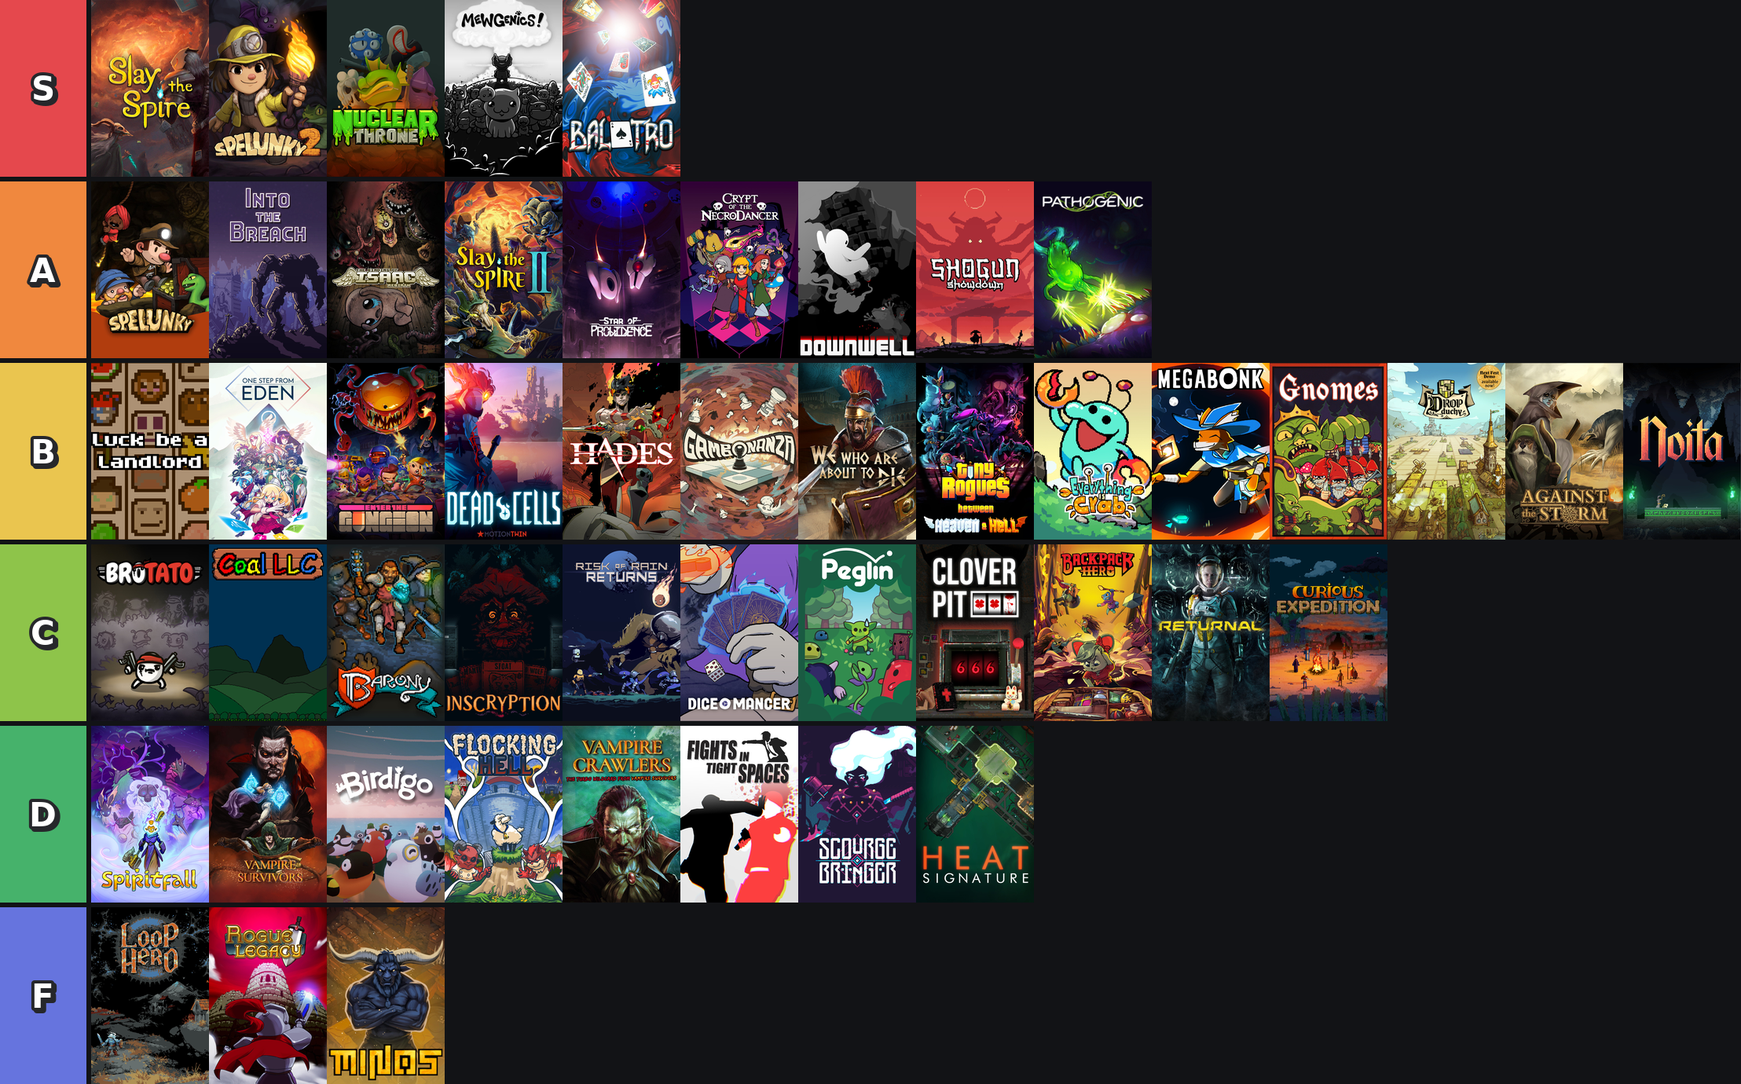
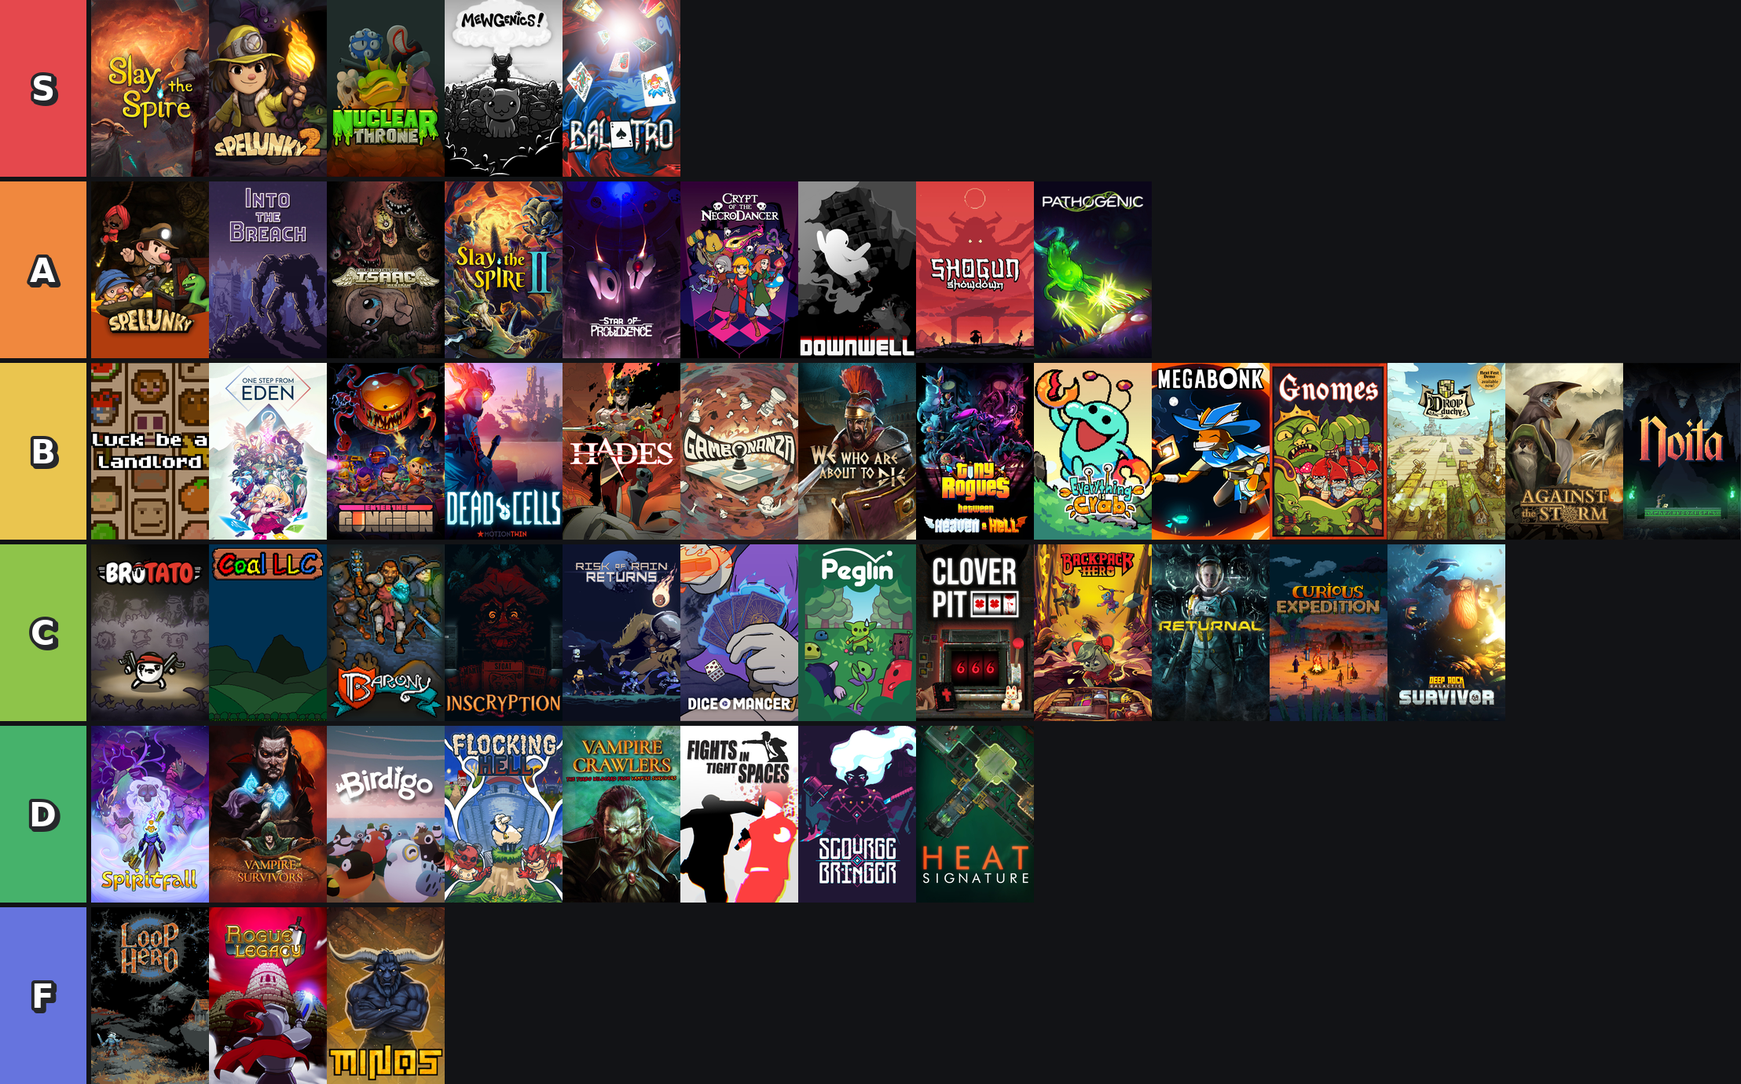
deploy: b0811cf26ed3d3cce0c8ecb3d6b9a3818a7119a2

Changed region(s): [[0.7784, 0.4986, 0.8718, 0.6543]]

diff --git a/episodes/index.html b/episodes/index.html
@@ -1,4 +1,4 @@
-<!doctype html><html lang="en"><head><meta charset="utf-8"/><link rel="icon" href="/favicon.ico" sizes="any"/><link rel="icon" type="image/png" href="/favicon-32.png" sizes="32x32"/><meta name="viewport" content="width=device-width,initial-scale=1"/><meta name="theme-color" content="#08090A"/><meta name="color-scheme" content="dark"/><title>All episodes | RoguePod LiteCast</title><meta name="title" content="All episodes | RoguePod LiteCast"/><meta name="description" content="Every episode of RoguePod LiteCast — 50 roguelites played, discussed, and placed on the tier list by Danny and David."/><meta name="keywords" content="roguelite podcast, roguelike podcast, slay the spire, hades, balatro, noita, inscryption, binding of isaac, risk of rain returns, into the breach, spelunky, nuclear throne, enter the gungeon, crypt of the necrodancer, rogue legacy, indie game podcast, roguelite review, roguelike review, gaming podcast, tier list podcast, roguelite tier list"/><meta name="robots" content="index, follow"/><meta name="language" content="English"/><meta name="author" content="Danny and David - RoguePod LiteCast"/><meta property="og:type" content="website"/><meta property="og:url" content="https://roguepod.show/episodes/"/><meta property="og:title" content="All episodes | RoguePod LiteCast"/><meta property="og:description" content="Every episode of RoguePod LiteCast — 50 roguelites played, discussed, and placed on the tier list by Danny and David."/><meta property="og:image" content="https://roguepod.show/brand/share-card.jpg"/><meta property="og:image:width" content="1200"/><meta property="og:image:height" content="630"/><meta property="og:image:alt" content="RoguePod LiteCast — a roguelite podcast"/><meta property="og:site_name" content="RoguePod LiteCast"/><meta property="twitter:card" content="summary_large_image"/><meta property="twitter:url" content="https://roguepod.show/episodes/"/><meta property="twitter:title" content="All episodes | RoguePod LiteCast"/><meta property="twitter:description" content="Every episode of RoguePod LiteCast — 50 roguelites played, discussed, and placed on the tier list by Danny and David."/><meta property="twitter:image" content="https://roguepod.show/brand/share-card.jpg"/><link rel="canonical" href="https://roguepod.show/episodes/" /><meta name="format-detection" content="telephone=no"/><link rel="apple-touch-icon" href="/apple-touch-icon.png"/><link rel="manifest" href="/manifest.json"/><script type="text/javascript">!function(n){if("/"===n.search[1]){var a=n.search.slice(1).split("&").map((function(n){return n.replace(/~and~/g,"&")})).join("?");window.history.replaceState(null,null,n.pathname.slice(0,-1)+a+n.hash)}}(window.location)</script><script defer="defer" src="/static/js/main.2dc2a6ab.js"></script><link href="/static/css/main.1523f94e.css" rel="stylesheet">  <script type="application/ld+json">
+<!doctype html><html lang="en"><head><meta charset="utf-8"/><link rel="icon" href="/favicon.ico" sizes="any"/><link rel="icon" type="image/png" href="/favicon-32.png" sizes="32x32"/><meta name="viewport" content="width=device-width,initial-scale=1"/><meta name="theme-color" content="#08090A"/><meta name="color-scheme" content="dark"/><title>All episodes | RoguePod LiteCast</title><meta name="title" content="All episodes | RoguePod LiteCast"/><meta name="description" content="Every episode of RoguePod LiteCast — 51 roguelites played, discussed, and placed on the tier list by Danny and David."/><meta name="keywords" content="roguelite podcast, roguelike podcast, slay the spire, hades, balatro, noita, inscryption, binding of isaac, risk of rain returns, into the breach, spelunky, nuclear throne, enter the gungeon, crypt of the necrodancer, rogue legacy, indie game podcast, roguelite review, roguelike review, gaming podcast, tier list podcast, roguelite tier list"/><meta name="robots" content="index, follow"/><meta name="language" content="English"/><meta name="author" content="Danny and David - RoguePod LiteCast"/><meta property="og:type" content="website"/><meta property="og:url" content="https://roguepod.show/episodes/"/><meta property="og:title" content="All episodes | RoguePod LiteCast"/><meta property="og:description" content="Every episode of RoguePod LiteCast — 51 roguelites played, discussed, and placed on the tier list by Danny and David."/><meta property="og:image" content="https://roguepod.show/brand/share-card.jpg"/><meta property="og:image:width" content="1200"/><meta property="og:image:height" content="630"/><meta property="og:image:alt" content="RoguePod LiteCast — a roguelite podcast"/><meta property="og:site_name" content="RoguePod LiteCast"/><meta property="twitter:card" content="summary_large_image"/><meta property="twitter:url" content="https://roguepod.show/episodes/"/><meta property="twitter:title" content="All episodes | RoguePod LiteCast"/><meta property="twitter:description" content="Every episode of RoguePod LiteCast — 51 roguelites played, discussed, and placed on the tier list by Danny and David."/><meta property="twitter:image" content="https://roguepod.show/brand/share-card.jpg"/><link rel="canonical" href="https://roguepod.show/episodes/" /><meta name="format-detection" content="telephone=no"/><link rel="apple-touch-icon" href="/apple-touch-icon.png"/><link rel="manifest" href="/manifest.json"/><script type="text/javascript">!function(n){if("/"===n.search[1]){var a=n.search.slice(1).split("&").map((function(n){return n.replace(/~and~/g,"&")})).join("?");window.history.replaceState(null,null,n.pathname.slice(0,-1)+a+n.hash)}}(window.location)</script><script defer="defer" src="/static/js/main.2dc2a6ab.js"></script><link href="/static/css/main.1523f94e.css" rel="stylesheet">  <script type="application/ld+json">
 {
   "@context": "https://schema.org",
   "@type": "CollectionPage",
@@ -13,6 +13,6 @@
   </script>
 </head><body><noscript><div style="font-family:system-ui,sans-serif;padding:2rem;background:#08090a;color:#e8eaed;min-height:100vh"><h1>RoguePod LiteCast</h1><p>Building the most comprehensive roguelite tier list, one episode at a time. We like playing roguelites, so we started a podcast to talk about them. New episodes every other Wednesday.</p><p><a href="https://roguepod.show/tierlist.png" style="color:#ff3b30">View the tier list</a></p><p>Listen on <a href="https://open.spotify.com/show/0LGkjkg8uVVMg5y6slJiua" style="color:#ff3b30">Spotify</a>, <a href="https://podcasts.apple.com/gb/podcast/roguepod-litecast/id1774367401" style="color:#ff3b30">Apple Podcasts</a>, or via <a href="https://feeds.acast.com/public/shows/roguepod-litecast" style="color:#ff3b30">RSS</a>. Monthly bonus episodes on <a href="https://www.patreon.com/roguepod" style="color:#ff3b30">Patreon</a>.</p><p>Games covered include Slay the Spire, Hades, Balatro, Noita, Inscryption, The Binding of Isaac, Risk of Rain Returns, Into the Breach, Spelunky 2, Nuclear Throne, Enter the Gungeon, Crypt of the NecroDancer, Rogue Legacy, and many more.</p></div></noscript><div id="root"><div style="font-family: system-ui, sans-serif; padding: 2rem; background: #08090A; color: #E8EAED; min-height: 100vh;">
       <h1 style="color:#fff;">All episodes</h1>
-      <p style="color:#B7BCC4;">Every episode of RoguePod LiteCast — 50 roguelites played, discussed, and placed on the tier list by Danny and David.</p>
-      <ul><li><a style="color:#FF3B30;" href="/episodes/vampire-survivors/">Vampire Survivors</a></li><li><a style="color:#FF3B30;" href="/episodes/dead-cells/">Dead Cells</a></li><li><a style="color:#FF3B30;" href="/episodes/pathogenic/">Pathogenic</a></li><li><a style="color:#FF3B30;" href="/episodes/everything-is-crab/">Everything is Crab</a></li><li><a style="color:#FF3B30;" href="/episodes/gambonanza/">Gambonanza</a></li><li><a style="color:#FF3B30;" href="/episodes/spiritfall/">Spiritfall</a></li><li><a style="color:#FF3B30;" href="/episodes/minos/">Minos</a></li><li><a style="color:#FF3B30;" href="/episodes/the-binding-of-isaac-rebirth/">The Binding of Isaac: Rebirth</a></li><li><a style="color:#FF3B30;" href="/episodes/scourgebringer/">ScourgeBringer</a></li><li><a style="color:#FF3B30;" href="/episodes/vampire-crawlers-the-turbo-wildcard-from-vampire-survivors/">Vampire Crawlers: The Turbo Wildcard from Vampire Survivors</a></li><li><a style="color:#FF3B30;" href="/episodes/inscryption/">Inscryption</a></li><li><a style="color:#FF3B30;" href="/episodes/gnomes/">Gnomes</a></li><li><a style="color:#FF3B30;" href="/episodes/slay-the-spire-2/">Slay the Spire 2</a></li><li><a style="color:#FF3B30;" href="/episodes/mewgenics/">Mewgenics</a></li><li><a style="color:#FF3B30;" href="/episodes/star-of-providence/">Star of Providence</a></li><li><a style="color:#FF3B30;" href="/episodes/cloverpit/">CloverPit</a></li><li><a style="color:#FF3B30;" href="/episodes/spelunky-2/">Spelunky 2</a></li><li><a style="color:#FF3B30;" href="/episodes/spelunky-hd/">Spelunky HD</a></li><li><a style="color:#FF3B30;" href="/episodes/coal-llc/">Coal LLC</a></li><li><a style="color:#FF3B30;" href="/episodes/megabonk/">Megabonk</a></li><li><a style="color:#FF3B30;" href="/episodes/backpack-hero/">Backpack Hero</a></li><li><a style="color:#FF3B30;" href="/episodes/hades/">Hades</a></li><li><a style="color:#FF3B30;" href="/episodes/risk-of-rain-returns/">Risk of Rain Returns</a></li><li><a style="color:#FF3B30;" href="/episodes/diceomancer/">Diceomancer</a></li><li><a style="color:#FF3B30;" href="/episodes/birdigo/">Birdigo</a></li><li><a style="color:#FF3B30;" href="/episodes/curious-expedition/">Curious Expedition</a></li><li><a style="color:#FF3B30;" href="/episodes/flocking-hell/">Flocking Hell</a></li><li><a style="color:#FF3B30;" href="/episodes/nuclear-throne/">Nuclear Throne</a></li><li><a style="color:#FF3B30;" href="/episodes/one-step-from-eden/">One Step From Eden</a></li><li><a style="color:#FF3B30;" href="/episodes/loop-hero/">Loop Hero</a></li><li><a style="color:#FF3B30;" href="/episodes/drop-duchy/">Drop Duchy</a></li><li><a style="color:#FF3B30;" href="/episodes/enter-the-gungeon/">Enter the Gungeon</a></li><li><a style="color:#FF3B30;" href="/episodes/brotato/">Brotato</a></li><li><a style="color:#FF3B30;" href="/episodes/against-the-storm/">Against the Storm</a></li><li><a style="color:#FF3B30;" href="/episodes/heat-signature/">Heat Signature</a></li><li><a style="color:#FF3B30;" href="/episodes/downwell/">Downwell</a></li><li><a style="color:#FF3B30;" href="/episodes/into-the-breach/">Into the Breach</a></li><li><a style="color:#FF3B30;" href="/episodes/slay-the-spire/">Slay the Spire</a></li><li><a style="color:#FF3B30;" href="/episodes/peglin/">Peglin</a></li><li><a style="color:#FF3B30;" href="/episodes/tiny-rogues/">Tiny Rogues</a></li><li><a style="color:#FF3B30;" href="/episodes/fights-in-tight-spaces/">Fights in Tight Spaces</a></li><li><a style="color:#FF3B30;" href="/episodes/luck-be-a-landlord/">Luck be a Landlord</a></li><li><a style="color:#FF3B30;" href="/episodes/returnal/">Returnal</a></li><li><a style="color:#FF3B30;" href="/episodes/barony/">Barony</a></li><li><a style="color:#FF3B30;" href="/episodes/balatro/">Balatro</a></li><li><a style="color:#FF3B30;" href="/episodes/noita/">Noita</a></li><li><a style="color:#FF3B30;" href="/episodes/shogun-showdown/">Shogun Showdown</a></li><li><a style="color:#FF3B30;" href="/episodes/rogue-legacy/">Rogue Legacy</a></li><li><a style="color:#FF3B30;" href="/episodes/we-who-are-about-to-die/">We Who Are About to Die</a></li><li><a style="color:#FF3B30;" href="/episodes/crypt-of-the-necrodancer/">Crypt of the NecroDancer</a></li></ul>
+      <p style="color:#B7BCC4;">Every episode of RoguePod LiteCast — 51 roguelites played, discussed, and placed on the tier list by Danny and David.</p>
+      <ul><li><a style="color:#FF3B30;" href="/episodes/deep-rock-galactic-survivor/">Deep Rock Galactic: Survivor</a></li><li><a style="color:#FF3B30;" href="/episodes/vampire-survivors/">Vampire Survivors</a></li><li><a style="color:#FF3B30;" href="/episodes/dead-cells/">Dead Cells</a></li><li><a style="color:#FF3B30;" href="/episodes/pathogenic/">Pathogenic</a></li><li><a style="color:#FF3B30;" href="/episodes/everything-is-crab/">Everything is Crab</a></li><li><a style="color:#FF3B30;" href="/episodes/gambonanza/">Gambonanza</a></li><li><a style="color:#FF3B30;" href="/episodes/spiritfall/">Spiritfall</a></li><li><a style="color:#FF3B30;" href="/episodes/minos/">Minos</a></li><li><a style="color:#FF3B30;" href="/episodes/the-binding-of-isaac-rebirth/">The Binding of Isaac: Rebirth</a></li><li><a style="color:#FF3B30;" href="/episodes/scourgebringer/">ScourgeBringer</a></li><li><a style="color:#FF3B30;" href="/episodes/vampire-crawlers-the-turbo-wildcard-from-vampire-survivors/">Vampire Crawlers: The Turbo Wildcard from Vampire Survivors</a></li><li><a style="color:#FF3B30;" href="/episodes/inscryption/">Inscryption</a></li><li><a style="color:#FF3B30;" href="/episodes/gnomes/">Gnomes</a></li><li><a style="color:#FF3B30;" href="/episodes/slay-the-spire-2/">Slay the Spire 2</a></li><li><a style="color:#FF3B30;" href="/episodes/mewgenics/">Mewgenics</a></li><li><a style="color:#FF3B30;" href="/episodes/star-of-providence/">Star of Providence</a></li><li><a style="color:#FF3B30;" href="/episodes/cloverpit/">CloverPit</a></li><li><a style="color:#FF3B30;" href="/episodes/spelunky-2/">Spelunky 2</a></li><li><a style="color:#FF3B30;" href="/episodes/spelunky-hd/">Spelunky HD</a></li><li><a style="color:#FF3B30;" href="/episodes/coal-llc/">Coal LLC</a></li><li><a style="color:#FF3B30;" href="/episodes/megabonk/">Megabonk</a></li><li><a style="color:#FF3B30;" href="/episodes/backpack-hero/">Backpack Hero</a></li><li><a style="color:#FF3B30;" href="/episodes/hades/">Hades</a></li><li><a style="color:#FF3B30;" href="/episodes/risk-of-rain-returns/">Risk of Rain Returns</a></li><li><a style="color:#FF3B30;" href="/episodes/diceomancer/">Diceomancer</a></li><li><a style="color:#FF3B30;" href="/episodes/birdigo/">Birdigo</a></li><li><a style="color:#FF3B30;" href="/episodes/curious-expedition/">Curious Expedition</a></li><li><a style="color:#FF3B30;" href="/episodes/flocking-hell/">Flocking Hell</a></li><li><a style="color:#FF3B30;" href="/episodes/nuclear-throne/">Nuclear Throne</a></li><li><a style="color:#FF3B30;" href="/episodes/one-step-from-eden/">One Step From Eden</a></li><li><a style="color:#FF3B30;" href="/episodes/loop-hero/">Loop Hero</a></li><li><a style="color:#FF3B30;" href="/episodes/drop-duchy/">Drop Duchy</a></li><li><a style="color:#FF3B30;" href="/episodes/enter-the-gungeon/">Enter the Gungeon</a></li><li><a style="color:#FF3B30;" href="/episodes/brotato/">Brotato</a></li><li><a style="color:#FF3B30;" href="/episodes/against-the-storm/">Against the Storm</a></li><li><a style="color:#FF3B30;" href="/episodes/heat-signature/">Heat Signature</a></li><li><a style="color:#FF3B30;" href="/episodes/downwell/">Downwell</a></li><li><a style="color:#FF3B30;" href="/episodes/into-the-breach/">Into the Breach</a></li><li><a style="color:#FF3B30;" href="/episodes/slay-the-spire/">Slay the Spire</a></li><li><a style="color:#FF3B30;" href="/episodes/peglin/">Peglin</a></li><li><a style="color:#FF3B30;" href="/episodes/tiny-rogues/">Tiny Rogues</a></li><li><a style="color:#FF3B30;" href="/episodes/fights-in-tight-spaces/">Fights in Tight Spaces</a></li><li><a style="color:#FF3B30;" href="/episodes/luck-be-a-landlord/">Luck be a Landlord</a></li><li><a style="color:#FF3B30;" href="/episodes/returnal/">Returnal</a></li><li><a style="color:#FF3B30;" href="/episodes/barony/">Barony</a></li><li><a style="color:#FF3B30;" href="/episodes/balatro/">Balatro</a></li><li><a style="color:#FF3B30;" href="/episodes/noita/">Noita</a></li><li><a style="color:#FF3B30;" href="/episodes/shogun-showdown/">Shogun Showdown</a></li><li><a style="color:#FF3B30;" href="/episodes/rogue-legacy/">Rogue Legacy</a></li><li><a style="color:#FF3B30;" href="/episodes/we-who-are-about-to-die/">We Who Are About to Die</a></li><li><a style="color:#FF3B30;" href="/episodes/crypt-of-the-necrodancer/">Crypt of the NecroDancer</a></li></ul>
     </div></div></body></html>

diff --git a/episodes/deep-rock-galactic-survivor/index.html b/episodes/deep-rock-galactic-survivor/index.html
@@ -1,0 +1,29 @@
+<!doctype html><html lang="en"><head><meta charset="utf-8"/><link rel="icon" href="/favicon.ico" sizes="any"/><link rel="icon" type="image/png" href="/favicon-32.png" sizes="32x32"/><meta name="viewport" content="width=device-width,initial-scale=1"/><meta name="theme-color" content="#08090A"/><meta name="color-scheme" content="dark"/><title>Deep Rock Galactic: Survivor | RoguePod LiteCast</title><meta name="title" content="Deep Rock Galactic: Survivor | RoguePod LiteCast"/><meta name="description" content="A Podcast Review of Deep Rock Galactic: Survivor: This week we’re continuing Survivors September with the mining spin-off Deep Rock Galactic: Survivor and adding it to the ultimate roguelite tier list!"/><meta name="keywords" content="roguelite podcast, roguelike podcast, slay the spire, hades, balatro, noita, inscryption, binding of isaac, risk of rain returns, into the breach, spelunky, nuclear throne, enter the gungeon, crypt of the necrodancer, rogue legacy, indie game podcast, roguelite review, roguelike review, gaming podcast, tier list podcast, roguelite tier list"/><meta name="robots" content="index, follow"/><meta name="language" content="English"/><meta name="author" content="Danny and David - RoguePod LiteCast"/><meta property="og:type" content="article"/><meta property="og:url" content="https://roguepod.show/episodes/deep-rock-galactic-survivor/"/><meta property="og:title" content="Deep Rock Galactic: Survivor — RoguePod LiteCast"/><meta property="og:description" content="A Podcast Review of Deep Rock Galactic: Survivor: This week we’re continuing Survivors September with the mining spin-off Deep Rock Galactic: Survivor and adding it to the ultimate roguelite tier list!"/><meta property="og:image" content="https://roguepod.show/episode-share/deep-rock-galactic-survivor.jpg"/><meta property="og:image:width" content="1200"/><meta property="og:image:height" content="630"/><meta property="og:image:alt" content="RoguePod LiteCast — a roguelite podcast"/><meta property="og:site_name" content="RoguePod LiteCast"/><meta property="twitter:card" content="summary_large_image"/><meta property="twitter:url" content="https://roguepod.show/episodes/deep-rock-galactic-survivor/"/><meta property="twitter:title" content="Deep Rock Galactic: Survivor — RoguePod LiteCast"/><meta property="twitter:description" content="A Podcast Review of Deep Rock Galactic: Survivor: This week we’re continuing Survivors September with the mining spin-off Deep Rock Galactic: Survivor and adding it to the ultimate roguelite tier list!"/><meta property="twitter:image" content="https://roguepod.show/episode-share/deep-rock-galactic-survivor.jpg"/><link rel="canonical" href="https://roguepod.show/episodes/deep-rock-galactic-survivor/" /><meta name="format-detection" content="telephone=no"/><link rel="apple-touch-icon" href="/apple-touch-icon.png"/><link rel="manifest" href="/manifest.json"/><script type="text/javascript">!function(n){if("/"===n.search[1]){var a=n.search.slice(1).split("&").map((function(n){return n.replace(/~and~/g,"&")})).join("?");window.history.replaceState(null,null,n.pathname.slice(0,-1)+a+n.hash)}}(window.location)</script><script defer="defer" src="/static/js/main.2dc2a6ab.js"></script><link href="/static/css/main.1523f94e.css" rel="stylesheet">  <script type="application/ld+json">
+{
+  "@context": "https://schema.org",
+  "@type": "PodcastEpisode",
+  "name": "Deep Rock Galactic: Survivor",
+  "url": "https://roguepod.show/episodes/deep-rock-galactic-survivor/",
+  "datePublished": "2026-09-16T09:00:00.000Z",
+  "description": "A Podcast Review of Deep Rock Galactic: Survivor: This week we’re continuing Survivors September with the mining spin-off Deep Rock Galactic: Survivor and adding it to the ultimate roguelite tier list!",
+  "image": "https://roguepod.show/episode-share/deep-rock-galactic-survivor.jpg",
+  "episodeNumber": 51,
+  "associatedMedia": {
+    "@type": "MediaObject",
+    "contentUrl": "https://sphinx.acast.com/p/open/s/670c223adf4dd6f896322012/e/6aa97c418a1508074d19d244/media.mp3",
+    "encodingFormat": "audio/mpeg"
+  },
+  "partOfSeries": {
+    "@type": "PodcastSeries",
+    "name": "RoguePod LiteCast",
+    "url": "https://roguepod.show"
+  }
+}
+  </script>
+</head><body><noscript><div style="font-family:system-ui,sans-serif;padding:2rem;background:#08090a;color:#e8eaed;min-height:100vh"><h1>RoguePod LiteCast</h1><p>Building the most comprehensive roguelite tier list, one episode at a time. We like playing roguelites, so we started a podcast to talk about them. New episodes every other Wednesday.</p><p><a href="https://roguepod.show/tierlist.png" style="color:#ff3b30">View the tier list</a></p><p>Listen on <a href="https://open.spotify.com/show/0LGkjkg8uVVMg5y6slJiua" style="color:#ff3b30">Spotify</a>, <a href="https://podcasts.apple.com/gb/podcast/roguepod-litecast/id1774367401" style="color:#ff3b30">Apple Podcasts</a>, or via <a href="https://feeds.acast.com/public/shows/roguepod-litecast" style="color:#ff3b30">RSS</a>. Monthly bonus episodes on <a href="https://www.patreon.com/roguepod" style="color:#ff3b30">Patreon</a>.</p><p>Games covered include Slay the Spire, Hades, Balatro, Noita, Inscryption, The Binding of Isaac, Risk of Rain Returns, Into the Breach, Spelunky 2, Nuclear Throne, Enter the Gungeon, Crypt of the NecroDancer, Rogue Legacy, and many more.</p></div></noscript><div id="root"><div style="font-family: system-ui, sans-serif; padding: 2rem; background: #08090A; color: #E8EAED; min-height: 100vh;">
+        <p style="color:#FF3B30;">RoguePod LiteCast · Episode 51</p>
+        <h1 style="color:#fff;">Deep Rock Galactic: Survivor</h1>
+        <p style="color:#878D97;">Wed, 16 Sep 2026 09:00:00 GMT · 1h 35m</p>
+        <p style="color:#B7BCC4;">A Podcast Review of Deep Rock Galactic: Survivor: This week we’re continuing Survivors September with the mining spin-off Deep Rock Galactic: Survivor and adding it to the ultimate roguelite tier list!</p>
+        <p><a style="color:#FF3B30;" href="https://podcasts.apple.com/us/podcast/deep-rock-galactic-survivor/id1774367401?i=1000789997107">Apple Podcasts</a> · <a style="color:#FF3B30;" href="https://shows.acast.com/roguepod-litecast/episodes/6aa97c418a1508074d19d244">Acast</a> · <a style="color:#FF3B30;" href="https://roguepod.show/#tierlist">The tier list</a></p>
+      </div></div></body></html>
